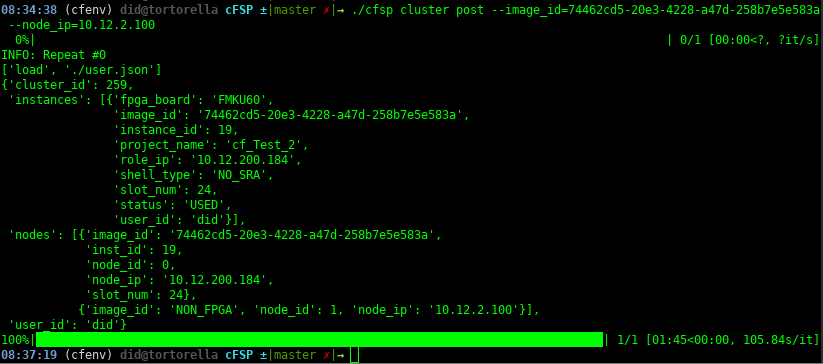
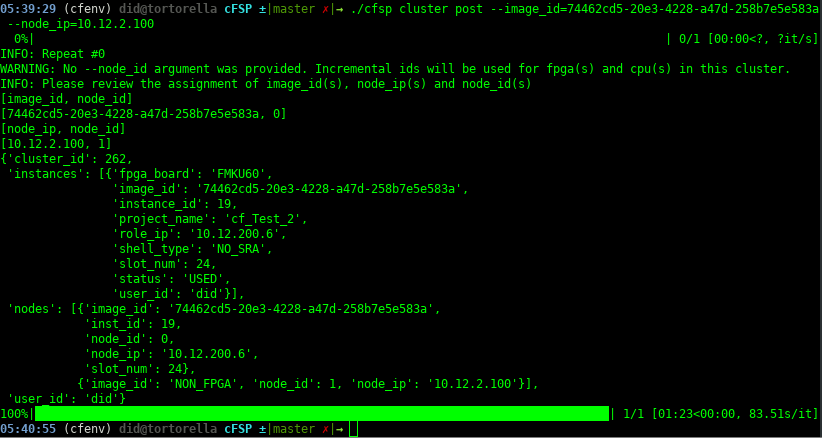
Added support for --node_id, which allows a user to select the the rank ids of cpus and fpgas.

Changed region(s): [[0.0, 0.0, 1.0, 1.0]]

diff --git a/cFSPlib/cfsp_cluster.py b/cFSPlib/cfsp_cluster.py
@@ -80,22 +80,36 @@ def main(args):
         pprint(api_response)
     elif args['<args>'][0] == 'post':
         # create an instance of the API class
-        # FIXME: Currently we only support a cluster with one ZYC2 VM and one FPGA
-        body = [] #[swagger_client.ClustersBody, swagger_client.ClustersBody]        
-        #body[0].image_id = args['--image_id']
-        #body[0].node_id = 0
-        #body[1] =  {    "image_id": "NON_FPGA",    "node_ip":  args['--node_ip'],    "node_id": 1  }
-        
-        fpga_num = len(args['--image_id'])
-        for i in range(fpga_num):
-            fpga_body = {    "image_id": args['--image_id'][i],  "node_id": i  }
-            body.append(fpga_body)
-            
+        body = []        
         cpu_num = len(args['--node_ip'])
+        fpga_num = len(args['--image_id'])
+        node_id_num = len(args['--node_id'])
+        
+        if node_id_num == 0:
+            print("WARNING: No --node_id argument was provided. Incremental ids will be used for fpga(s) and cpu(s) in this cluster.")
+            for i in range(fpga_num):
+                args['--node_id'].append(i)
+            for j in range(cpu_num):
+                args['--node_id'].append(fpga_num+j)
+        else:
+            if (node_id_num != cpu_num + fpga_num):
+                exit(print("ERROR: The provided argument(s) of --node_id ("+str(node_id_num)+") is not the same with the sum of --node_ip ("+str(cpu_num)+") and --image_id ("+str(fpga_num)+") ones. Please note that for each of --node_ip and --image_id, a --node_id argument is required. Aborting..."))
+        
+        # Convert the node_id list to ints
+        args['--node_id'] = list(map(int, args['--node_id']))
+   
+        print("INFO: Please review the assignment of image_id(s), node_ip(s) and node_id(s)")
+        print("[image_id, node_id]")
+        for i in range(fpga_num):
+            fpga_body = {    "image_id": args['--image_id'][i],  "node_id": args['--node_id'][i] }
+            print("["+args['--image_id'][i] + ", " + str(args['--node_id'][i]) + "]")
+            body.append(fpga_body)
+        print("[node_ip, node_id]")            
         for j in range(cpu_num):
-            cpu_body = {    "image_id": cfsp_globals.__NON_FPGA_IDENTIFIER__,    "node_ip":  args['--node_ip'][j],    "node_id": fpga_num+j  }
+            cpu_body = {    "image_id": cfsp_globals.__NON_FPGA_IDENTIFIER__,    "node_ip":  args['--node_ip'][j],    "node_id": args['--node_id'][fpga_num+j] }
+            print("["+args['--node_ip'][j] + ", " + str(args['--node_id'][fpga_num+j]) + "]")
             body.append(cpu_body)
-
+        
         try:
             # Request a cluster
             api_response = api_instance.cf_manager_rest_api_post_clusters(body, username, password, project_name=project_name, dont_verify_memory=args['--dont_verify_memory'])

diff --git a/cFSPlib/cFSP.py b/cFSPlib/cFSP.py
@@ -41,6 +41,7 @@ Usage:
     cfsp    [-c CFGFILE] [--version] [--help] [--username=<username>] [--password=<password>] [--project=<project>]
             [--image_id=<image_id>]...
             [--node_ip=<node_ip>]...
+            [--node_id=<node_id>]...
             [--image_file=<image_file>] [--sig_file=<sig_file>] [--pr_verify_rpt=<pr_verify_rpt] [--dont_verify_memory=<dont_verify_memory>]
             [--limit=<limit>] [--repeat=<repeat>]
             <command> [<args>...]
@@ -61,7 +62,8 @@ Options:
     --project=<password>        The user's project [default: project_example].
     
     --image_id=<image_id>       The id of the uploaded FPGA image, or NON_FPGA for a CPU VM node [default: NON_FPGA].
-    --node_ip=<node_ip>         The ip of the OpenVPN user's VM, e.g. a ZYC2 VM [default: 10.12.2.100].
+    --node_ip=<node_ip>         The ip of the user's VM, e.g. a ZYC2 VM.
+    --node_id=<node_id>         The id (rank) of either the VPN user's VM or FPGAs.
     
     --image_file=<image_file>      The FPGA image file to be uploaded [default: ./image.bit].
     --sig_file=<sig_file>          An FPGA bitstream signature file containing hashes from the build process.

diff --git a/README.md b/README.md
@@ -173,10 +173,13 @@ Assuming you want to create a cluster with
 ![cfsp-cluster-post](doc/img/6.png)
 
 
+> **_NOTE:_** By using the option `--node_id` after every `--image_id` and `--node_ip`, you can define the specific rank that this CPU node or FPGA node is associated with. If no such (an) option(s) (is)are provided, then incremental `node_id`s will be assigned, as shown in the figure above. Please note that if you provide `--node_id`s, it is mandatory to firstly define those of CPU(s) and secondly of FPGA(s).
+
 > **_NOTE:_** You may want to create many clusters of the previous type. For such cases, there is an extra option `--repeat=<num>`, which specifies how many times the command should be issued. Please note that this applies to all supported commands of `cfsp`, e.g. :
 
 ```bash
-./cfsp cluster post --image_id=74462cd5-20e3-4228-a47d-258b7e5e583a --node_ip=10.12.2.100 --repeat=2
+./cfsp cluster post --image_id=74462cd5-20e3-4228-a47d-258b7e5e583a --node_id 0 --node_ip=10.12.2.100 --node_id 1 --repeat=2
+
 ```
 
 ![cfsp-cluster-post-repeat](doc/img/6a.png)
